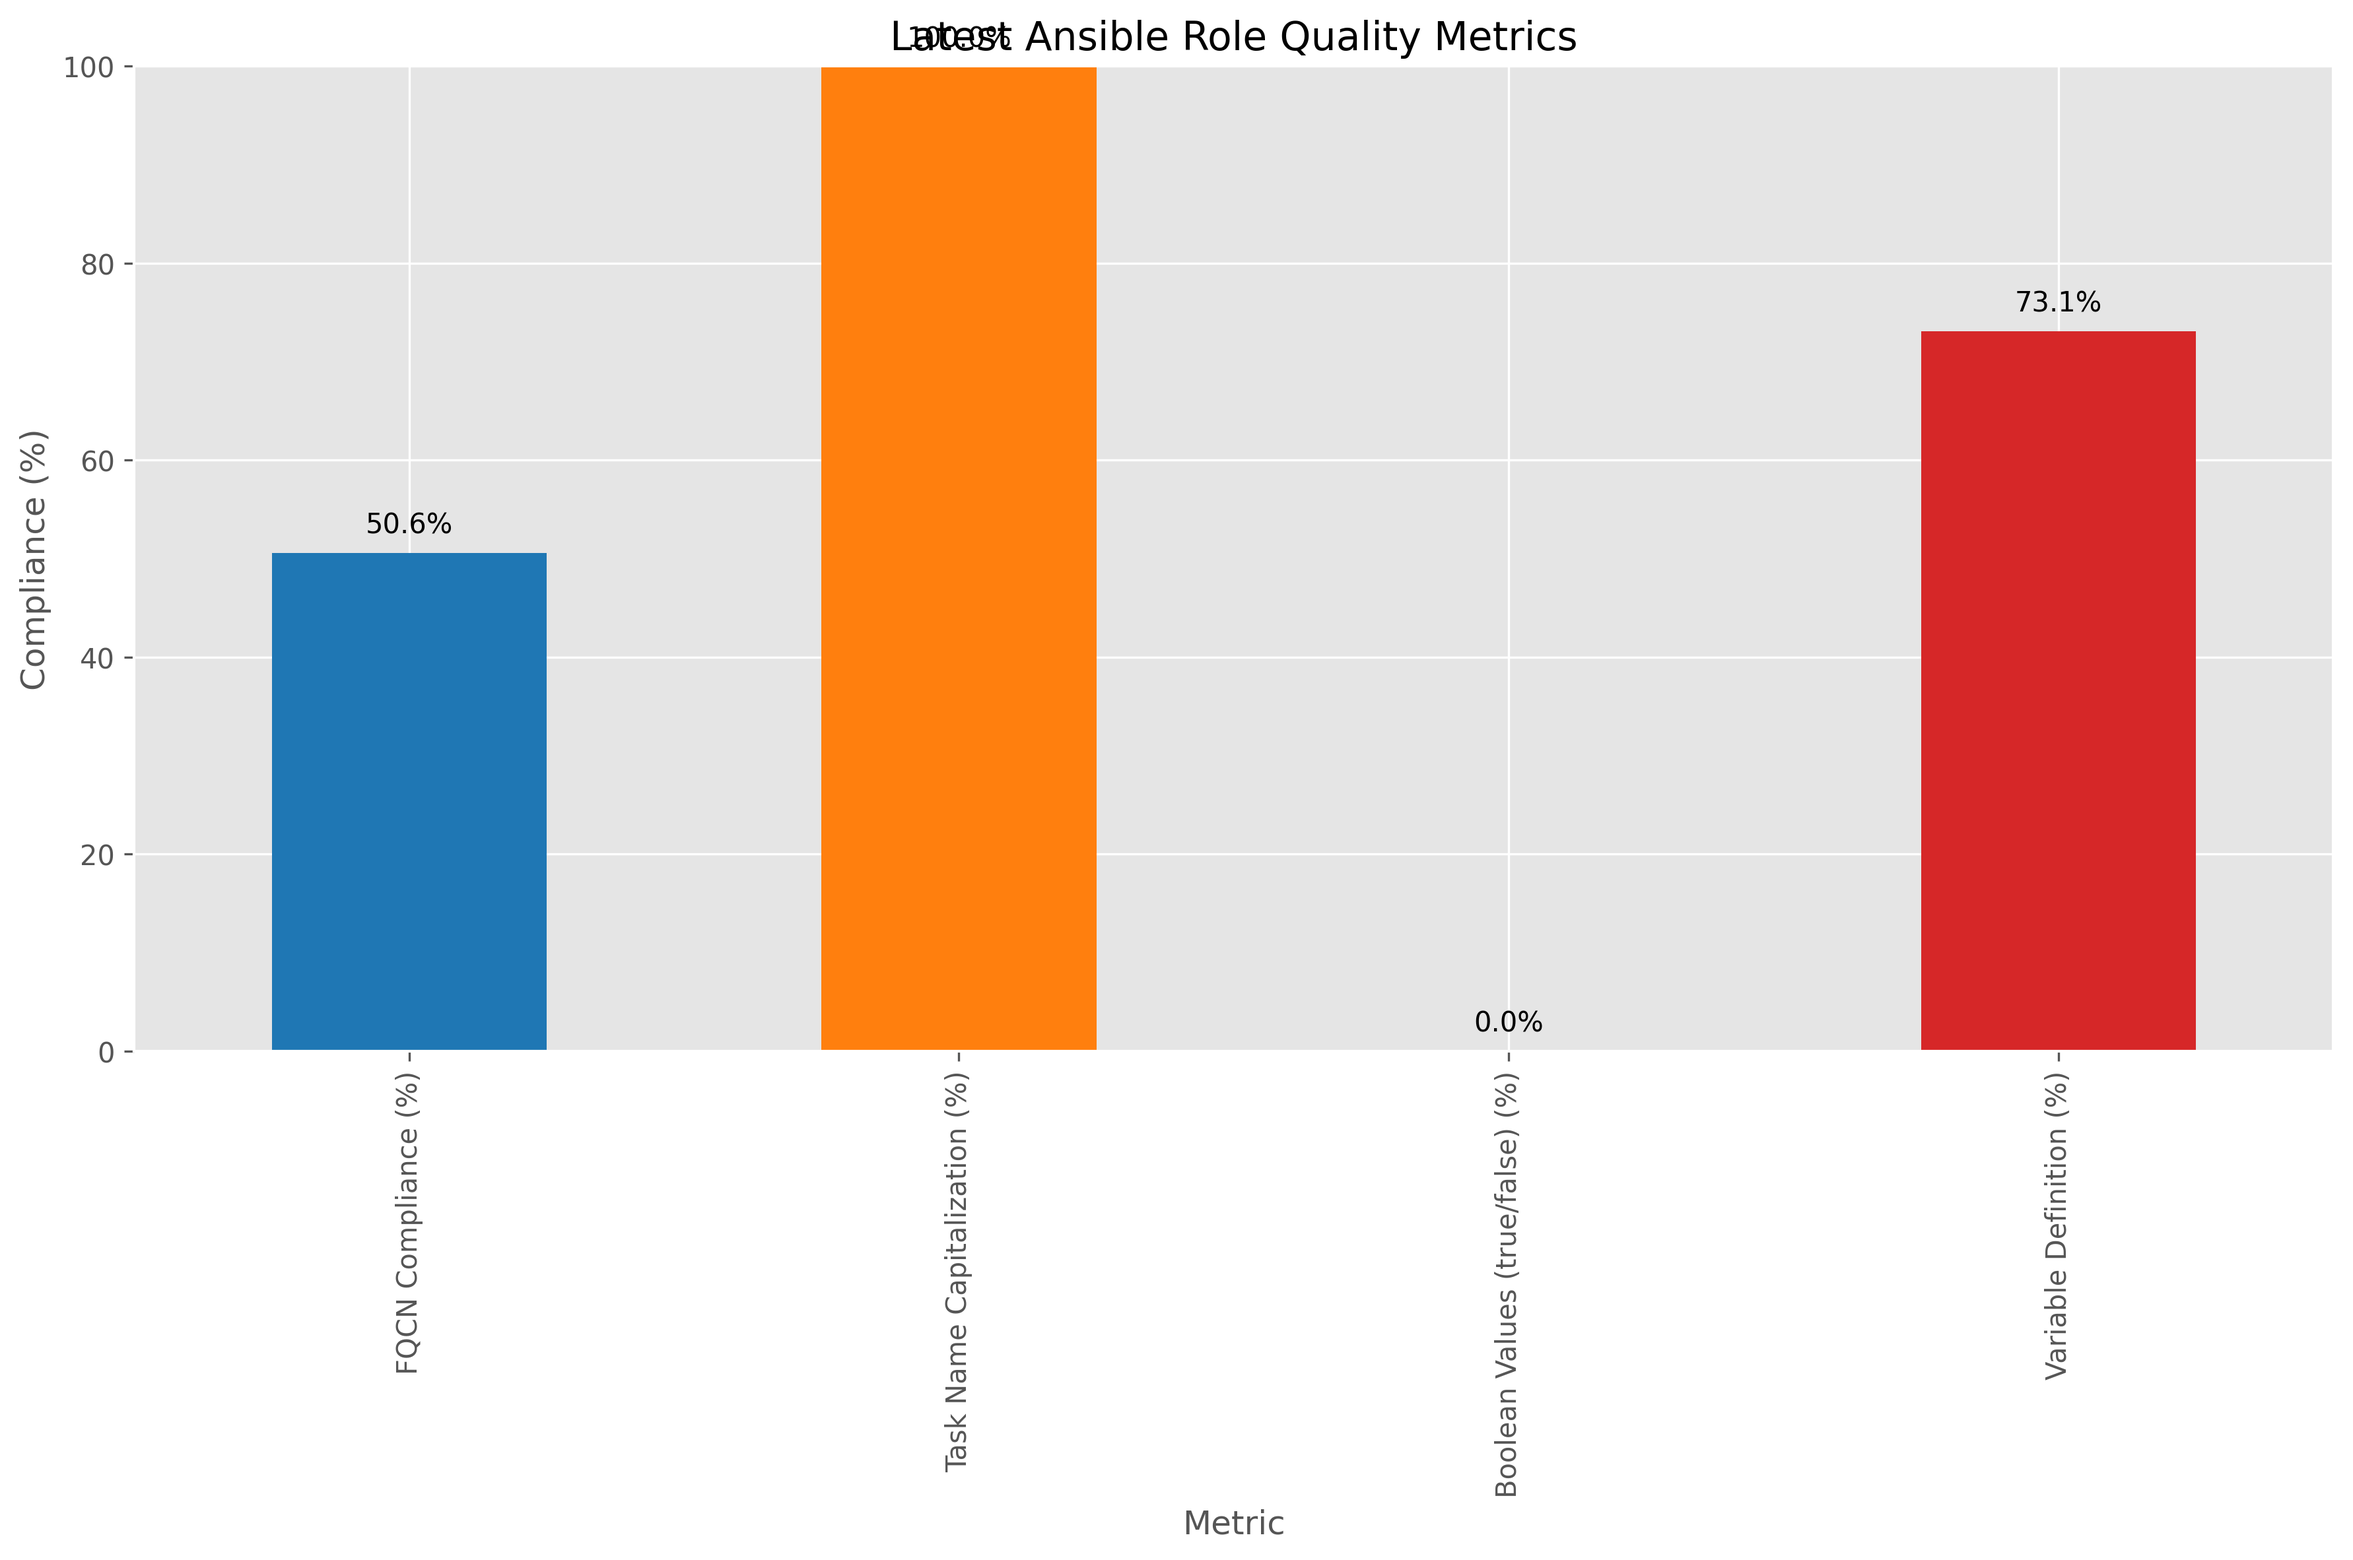
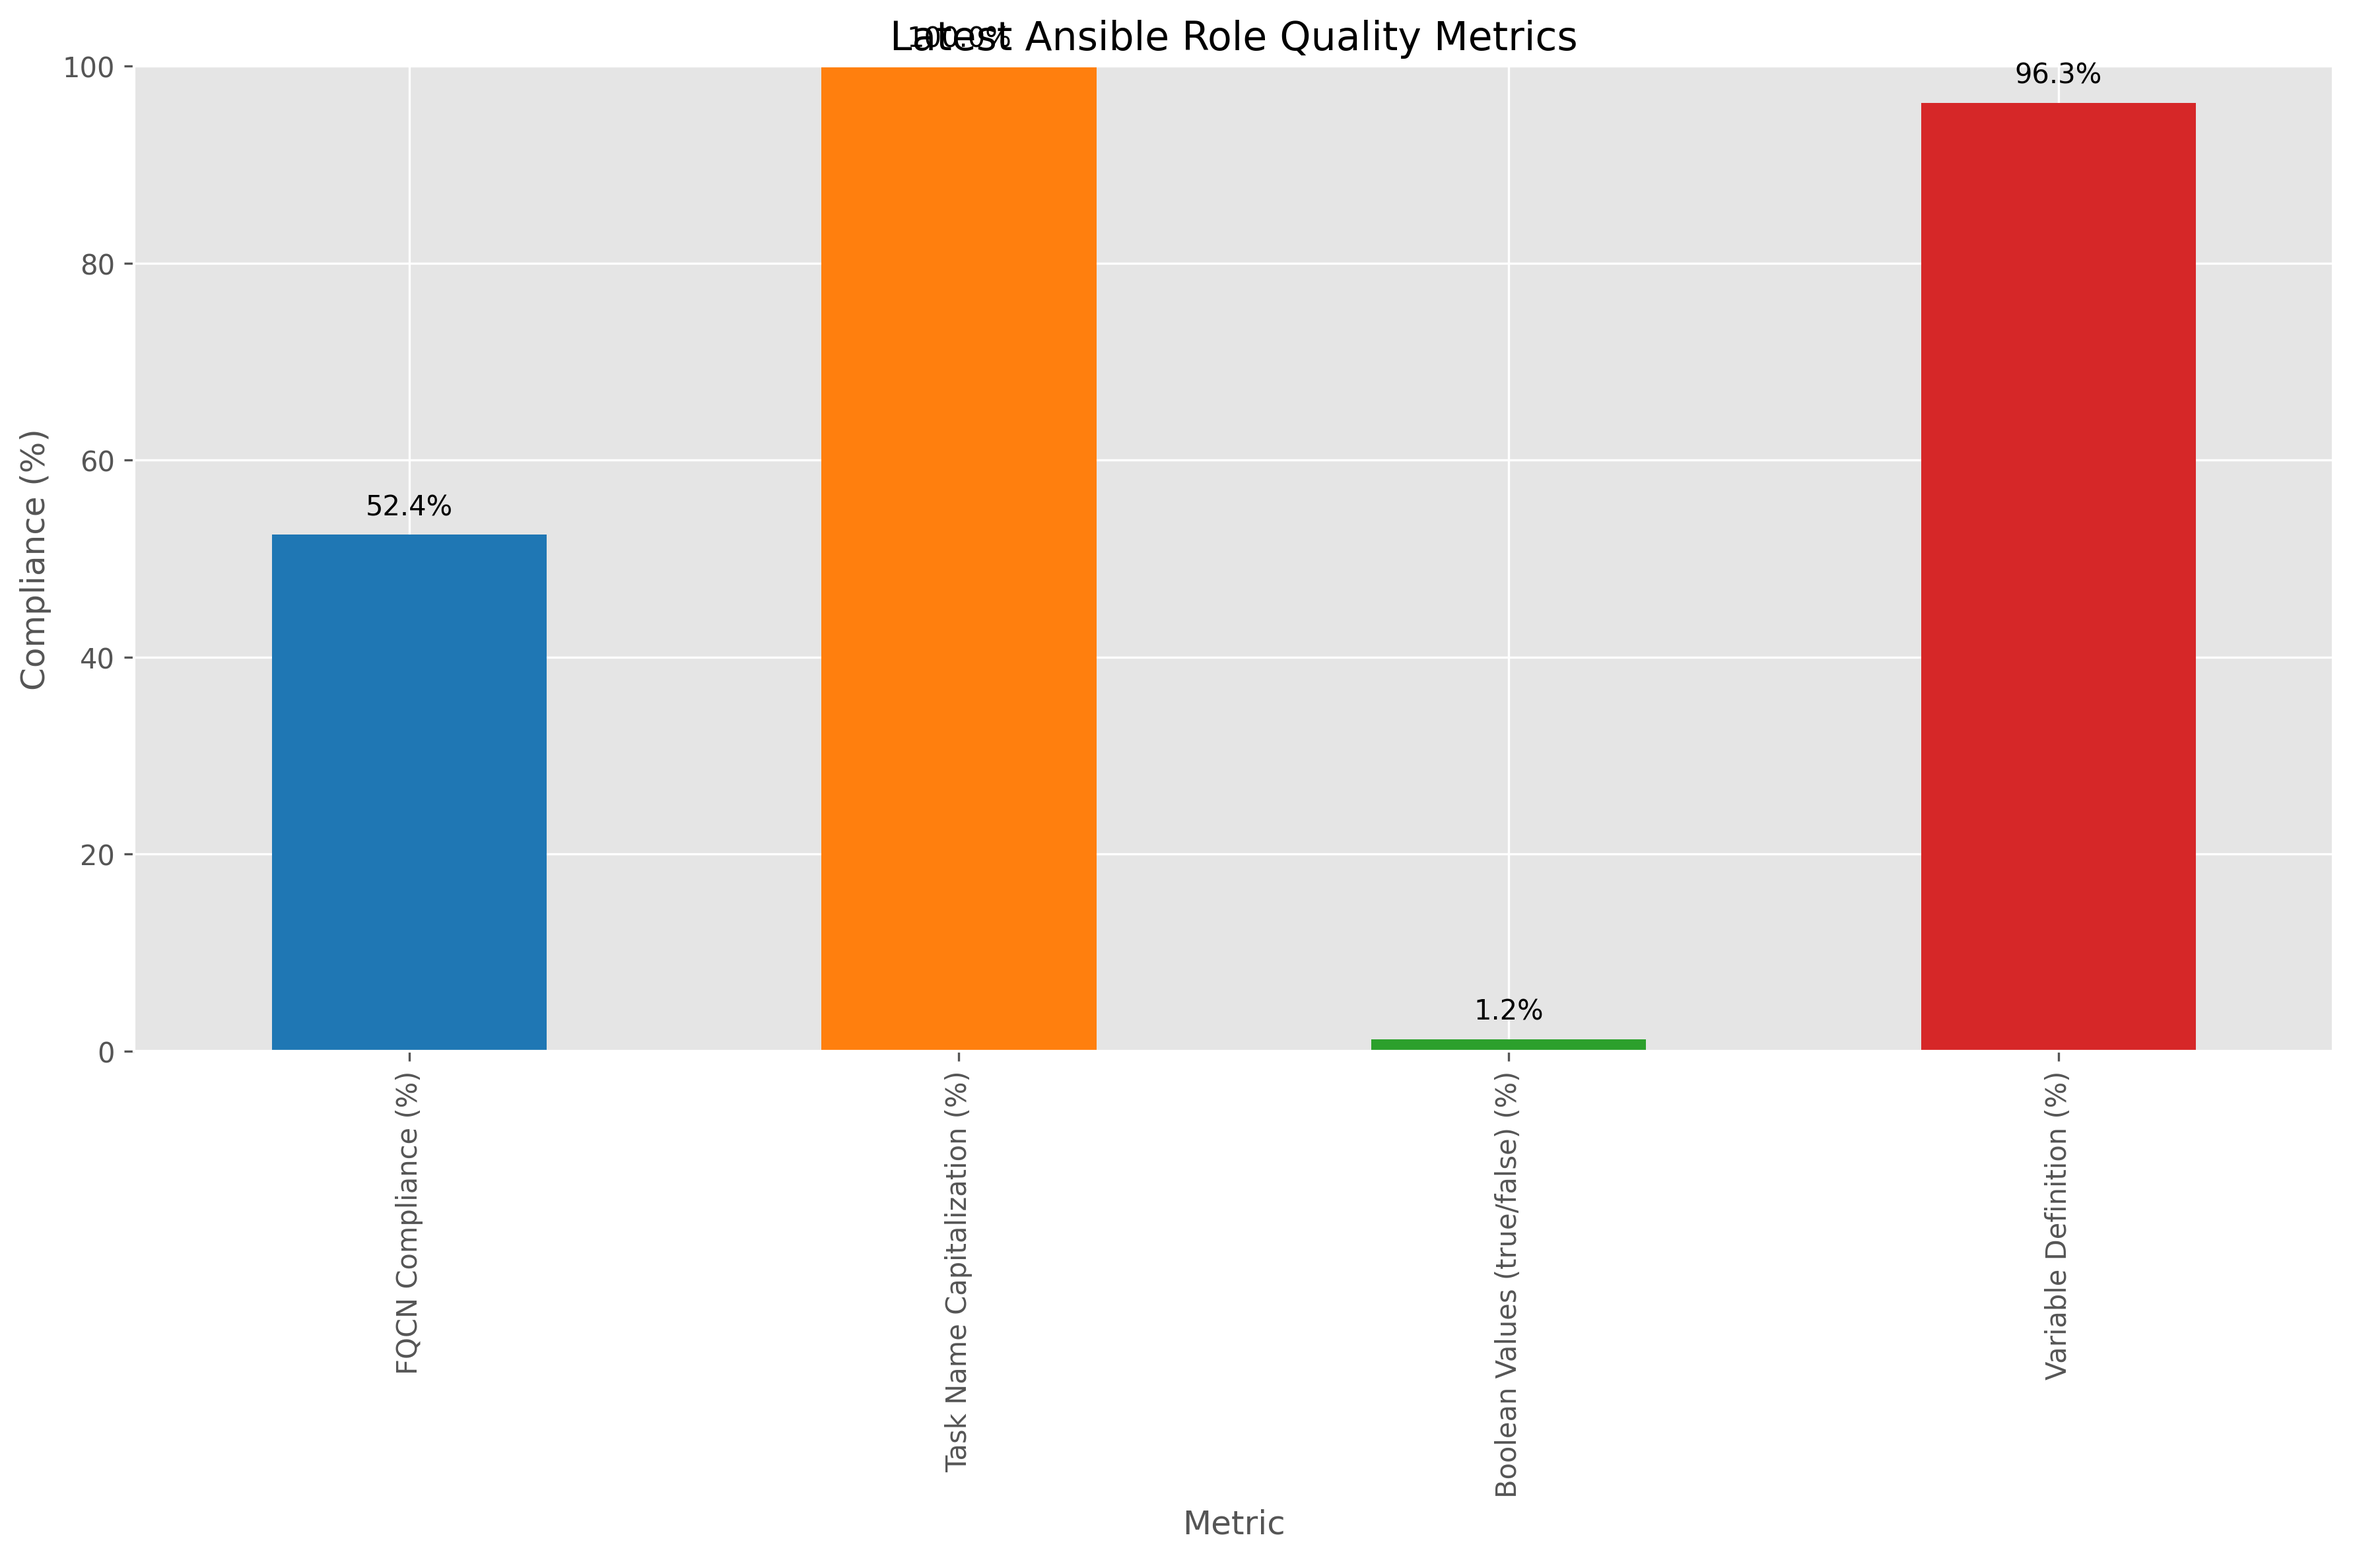
Update metrics (automated) 86381e575e3cb567ae7d61f2b827ec3665fe9a28

Changed region(s): [[0.8098, 0.0618, 0.9343, 0.2162], [0.0934, 0.3088, 0.2492, 0.3706], [0.5918, 0.6485, 0.7163, 0.6794]]

diff --git a/metrics/metrics_summary.md b/metrics/metrics_summary.md
@@ -1,15 +1,15 @@
 # Chef to Ansible Conversion Metrics
 
-Last updated: 2025-08-17 00:29:57
+Last updated: 2025-08-24 00:29:16
 
 ## Latest Compliance Metrics
 
 | Metric | Value |
 |--------|-------|
-| FQCN Compliance (%) | 50.59% |
+| FQCN Compliance (%) | 52.44% |
 | Task Name Capitalization (%) | 100.00% |
-| Boolean Values (true/false) (%) | 0.00% |
-| Variable Definition (%) | 73.08% |
+| Boolean Values (true/false) (%) | 1.22% |
+| Variable Definition (%) | 96.30% |
 
 ## Compliance Metrics Over Time
 
